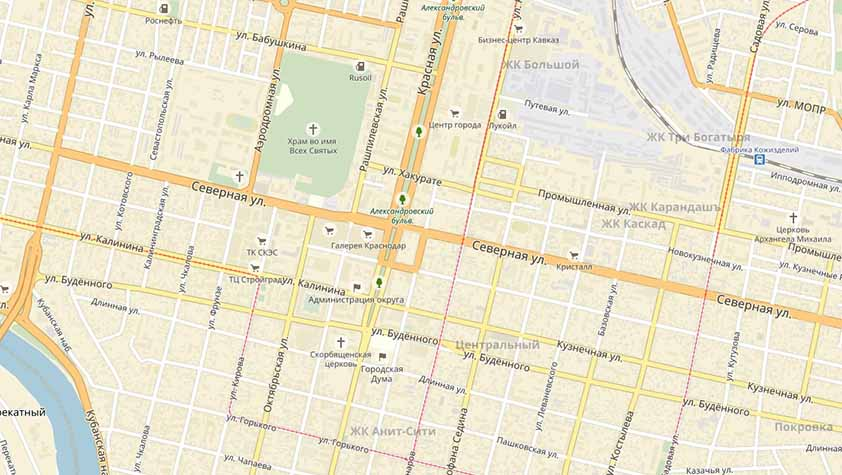
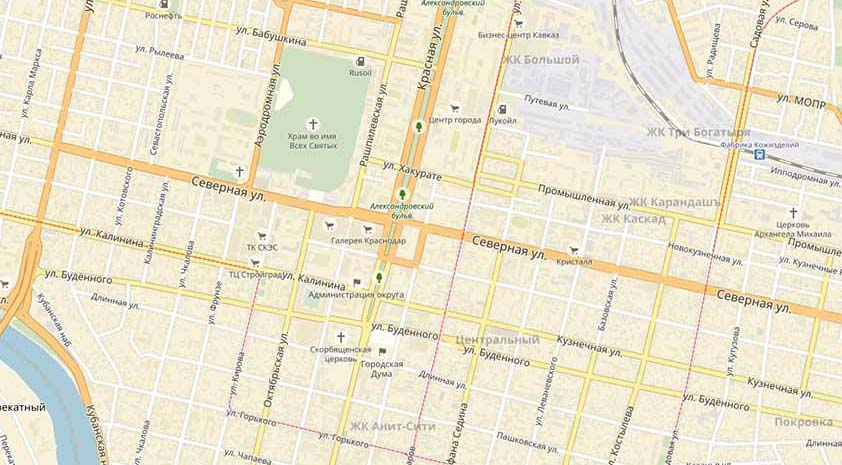
Правки десктоопной версии

diff --git a/index.html b/index.html
@@ -292,7 +292,7 @@
             </div>
           </div>
           <div class="map">
-            <iframe src="https://yandex.kz/map-widget/v1/-/CBQ~j8akGB" width="815" height="450"></iframe>
+            <iframe src="https://yandex.com/map-widget/v1/-/CBUAFJgPCD" width="815" height="465" ></iframe>
           </div>
         </div>
       </section>
@@ -350,12 +350,12 @@
       <button class="modal__close arcticmodal-close"></button>
     </div>
   </div>
-  <div style="display: none;">
+<!--  <div style="display: none;">-->
     <div class="modal-done">
       <p class="modal-done__title">Запрос отправлен</p>
       <button class="modal__close arcticmodal-close"></button>
     </div>
-  </div>
+<!--  </div>-->
   
   <script src="js/jquery-3.2.1.min.js"></script>
   <script src="js/jquery.arcticmodal-0.3.min.js"></script>

diff --git a/less/blocks/modal.less b/less/blocks/modal.less
@@ -33,6 +33,10 @@
   border-radius: 17px;
 }
 
+.modal__input:focus::placeholder {
+  opacity: 0;
+}
+
 .modal__text {
   font-size: 10px;
   line-height: 16px;
@@ -41,6 +45,7 @@
   a {
     display: block;
     font-size: 13px;
+    font-weight: 600;
     line-height: 30px;
     color: @blue;
     text-decoration: underline;

diff --git a/less/blocks/feedback.less b/less/blocks/feedback.less
@@ -1,5 +1,6 @@
 .feedback {
   padding: 30px;
+  padding-bottom: 0;
 }
 
 .feedback__title {
@@ -24,4 +25,8 @@
   &:last-of-type {
     margin-bottom: 30px;
   }
+}
+
+.feedback__input:focus::placeholder {
+  opacity: 0;
 }

diff --git a/less/blocks/benefits.less b/less/blocks/benefits.less
@@ -5,7 +5,7 @@
 
 .benefits__block {
   background-color: #d20000;
-  border-radius: 20px;
+  border-radius: 22px;
   box-shadow: 0px 3px 9.7px 0.3px rgba(0, 0, 0, 0.03);
   
   &--blue {

diff --git a/less/blocks/btn.less b/less/blocks/btn.less
@@ -29,7 +29,8 @@
     
   &--grey:hover,
   &--step:hover {
-    color: #000;
+    color: #fff;
+    background-color: @blue;
   }
   
   &--step {

diff --git a/less/blocks/map.less b/less/blocks/map.less
@@ -1,4 +1,5 @@
 .map {
+  max-height: 475px;
   border: 5px solid #fff;
   border-radius: 0 20px 20px 0;
   overflow: hidden;

diff --git a/less/blocks/key.less b/less/blocks/key.less
@@ -51,6 +51,7 @@
   
   &--address {
     padding: 0;
+    justify-content: flex-start;
   }
   
   &--remote {
